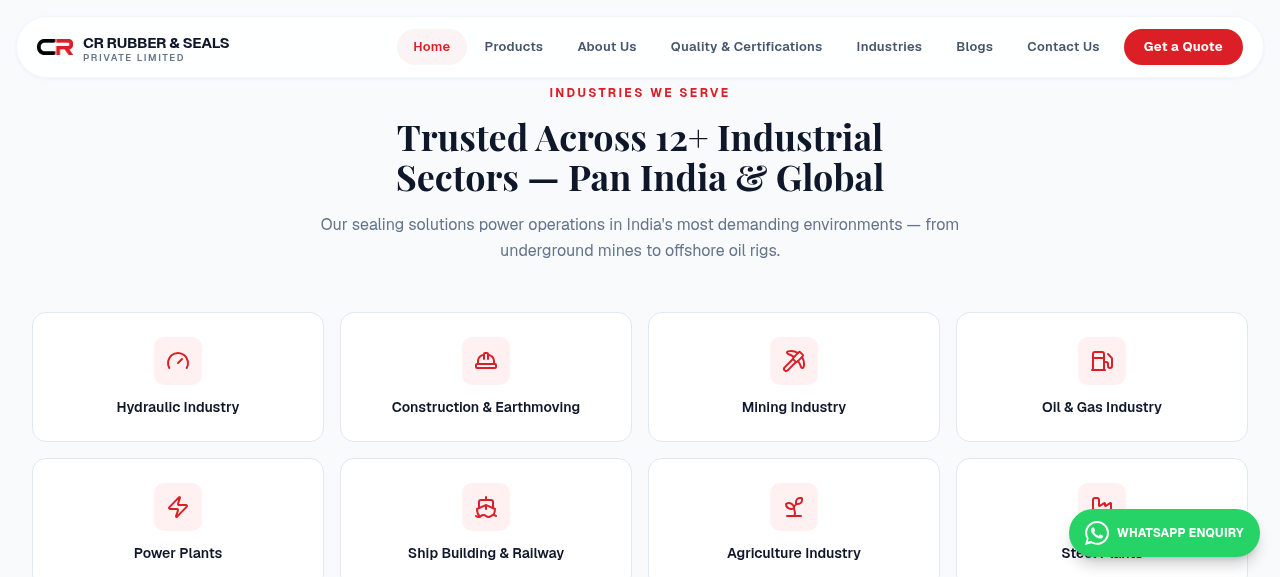
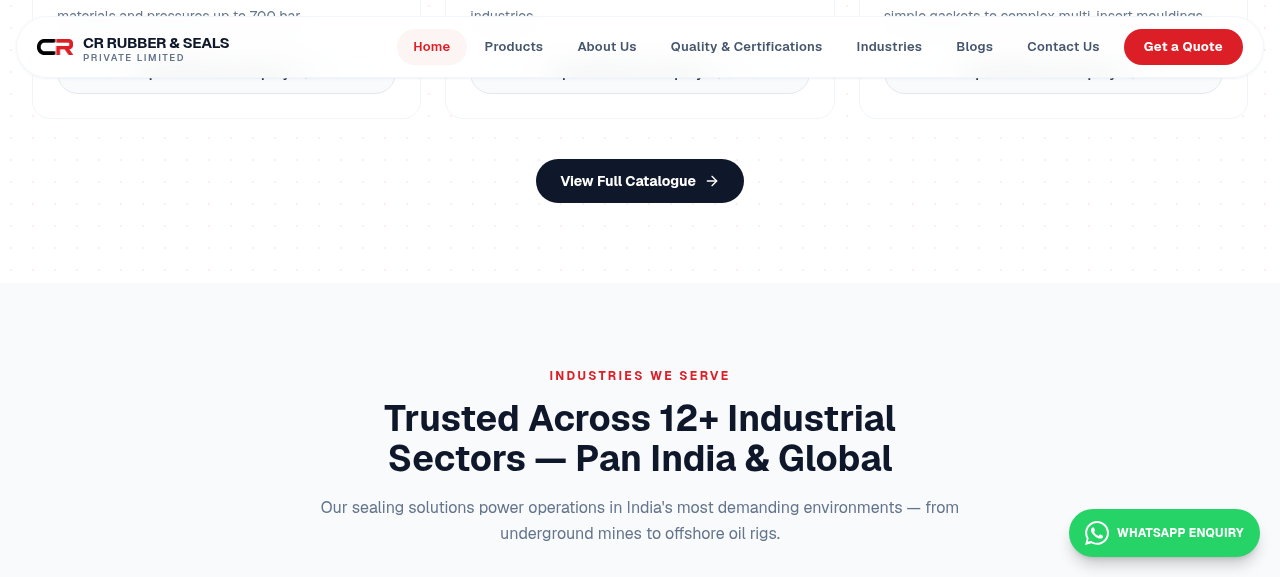
feat: add product images to site content
Added new product images for seals, kits, O-rings, and more.

diff --git a/lib/site-content.ts b/lib/site-content.ts
@@ -90,36 +90,42 @@ export const productRange = [
     blurb:
       'CNC-machined custom seals up to 1500mm OD with 500+ profiles, no tooling cost, no MOQ. Meander springs, large diameter & TBM seals.',
     category: 'Machined Seals',
+    image: 'https://hebbkx1anhila5yf.public.blob.vercel-storage.com/Machined%20Seals-hXHu42RzD1pW3TJu81c5Tnsvof0h4g.png',
   },
   {
     title: 'Seal Kits',
     blurb:
       'Rock breaker, pump and excavator seal kits. Compatible with BEML, Komatsu, L&T, Caterpillar, TATA and more.',
     category: 'Seal Kits',
+    image: 'https://hebbkx1anhila5yf.public.blob.vercel-storage.com/Seal%20Kits-ZbytSM91CF5Tib6MSUorYeSvyFqiUY.png',
   },
   {
     title: 'O-Rings',
     blurb:
       'NBR, Viton, Silicone and EPDM O-rings, X-rings, V-rings, backup rings, O-ring cord (standard and non-standard sizes).',
     category: 'O-Rings',
+    image: 'https://hebbkx1anhila5yf.public.blob.vercel-storage.com/O-Rings-fgbhIQlOjsKL3KyRdDTH6NSHEQXbwA.png',
   },
   {
     title: 'Hydraulic Seals',
     blurb:
       'Piston seals, rod seals, wiper seals and guide rings. 50+ profiles in PU, NBR, POM, PTFE. Pressure up to 700 bar.',
     category: 'Hydraulic Seals',
+    image: 'https://hebbkx1anhila5yf.public.blob.vercel-storage.com/Hydraulic%20Seals-4YKpzTBunXy1zZLWIGhjzyYHvPknCD.png',
   },
   {
     title: 'Pneumatic Seals',
     blurb:
       'Oil seals, fabric oil seals and V-rings for rotary shaft and pneumatic applications.',
     category: 'Pneumatic Seals',
+    image: 'https://hebbkx1anhila5yf.public.blob.vercel-storage.com/Pneumatic%20Seals-rtYNDJ6xLo8lJG7ZavVHKKl1huPglw.png',
   },
   {
     title: 'Moulded Rubber',
     blurb:
       'Custom moulded rubber parts, gaskets, diaphragms, pipe saddles, diffuser plates and rubber mouldings.',
     category: 'Moulded Rubber',
+    image: 'https://hebbkx1anhila5yf.public.blob.vercel-storage.com/Moulded%20Rubber%20Parts-v3yIll5GHQqZxHfypY7gxrmhhBq2uU.png',
   },
   {
     title: 'Teflon & Nylon',